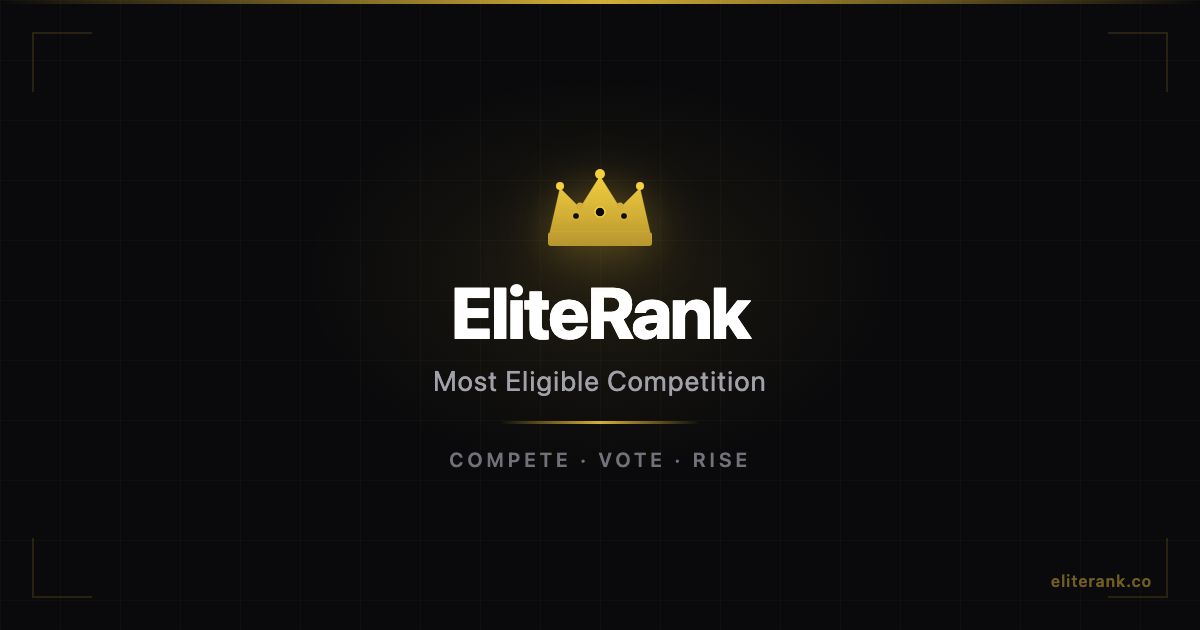
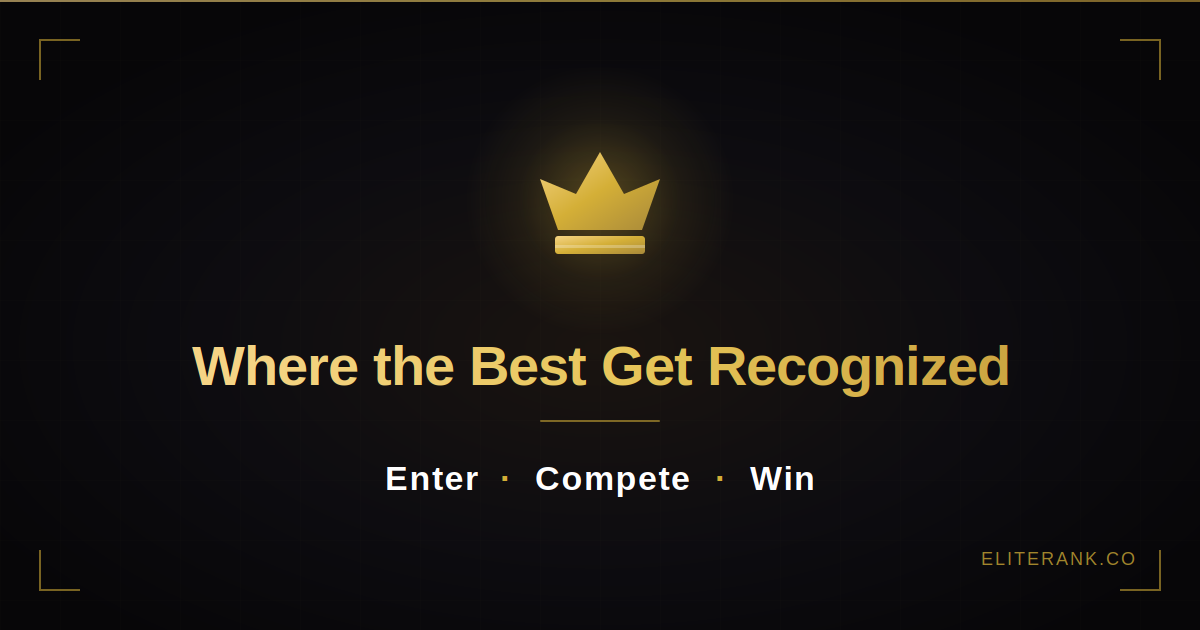
Match share preview copy and image to live homepage hero
Production hero is now "Where the Best Get Recognized" with the crown
on top and "Enter · Compete · Win" beneath. Updates the static homepage
meta tags, the OG handler default fallback, and regenerates og-image.png
from a new SVG built around the same crown path and copy so any share —
direct or via the per-page handler's default — matches what visitors
land on.

https://claude.ai/code/session_01FtswdRZV78E7ik8VD1JYNx

diff --git a/index.html b/index.html
@@ -5,21 +5,21 @@
     <link rel="icon" type="image/svg+xml" href="/favicon.svg" />
     <meta name="viewport" content="width=device-width, initial-scale=1.0" />
     <meta name="twilio-domain-verification" content="238e93cf6750f98e751ac834f9bb7a1f" />
-    <title>EliteRank - Most Eligible Competition</title>
+    <title>EliteRank — Where the Best Get Recognized</title>
 
     <!-- Open Graph / Social Sharing -->
     <meta property="og:url" content="https://eliterank.co" />
     <meta property="og:type" content="website" />
-    <meta property="og:title" content="EliteRank - Most Eligible Competition" />
-    <meta property="og:description" content="Compete, vote, and rise to the top. Join the most prestigious social competition platform." />
+    <meta property="og:title" content="EliteRank — Where the Best Get Recognized" />
+    <meta property="og:description" content="Enter · Compete · Win. The most prestigious social competition platform." />
     <meta property="og:image" content="https://eliterank.co/og-image.png" />
     <meta property="og:image:width" content="1200" />
     <meta property="og:image:height" content="630" />
 
     <!-- Twitter Card -->
     <meta name="twitter:card" content="summary_large_image" />
-    <meta name="twitter:title" content="EliteRank - Most Eligible Competition" />
-    <meta name="twitter:description" content="Compete, vote, and rise to the top. Join the most prestigious social competition platform." />
+    <meta name="twitter:title" content="EliteRank — Where the Best Get Recognized" />
+    <meta name="twitter:description" content="Enter · Compete · Win. The most prestigious social competition platform." />
     <meta name="twitter:image" content="https://eliterank.co/og-image.png" />
     <link rel="preconnect" href="https://fonts.googleapis.com">
     <link rel="preconnect" href="https://fonts.gstatic.com" crossorigin>

diff --git a/api/og.js b/api/og.js
@@ -13,9 +13,9 @@ import { indexHtml } from './_index-template.mjs';
 export const config = { runtime: 'edge' };
 
 const SITE_URL = 'https://eliterank.co';
-const DEFAULT_TITLE = 'EliteRank — Most Eligible Competition';
+const DEFAULT_TITLE = 'EliteRank — Where the Best Get Recognized';
 const DEFAULT_DESCRIPTION =
-  'Compete, vote, and rise to the top. Join the most prestigious social competition platform.';
+  'Enter · Compete · Win. The most prestigious social competition platform.';
 const DEFAULT_IMAGE = `${SITE_URL}/og-image.png`;
 const UUID_RE = /^[0-9a-f]{8}-[0-9a-f]{4}-[0-9a-f]{4}-[0-9a-f]{4}-[0-9a-f]{12}$/i;
 